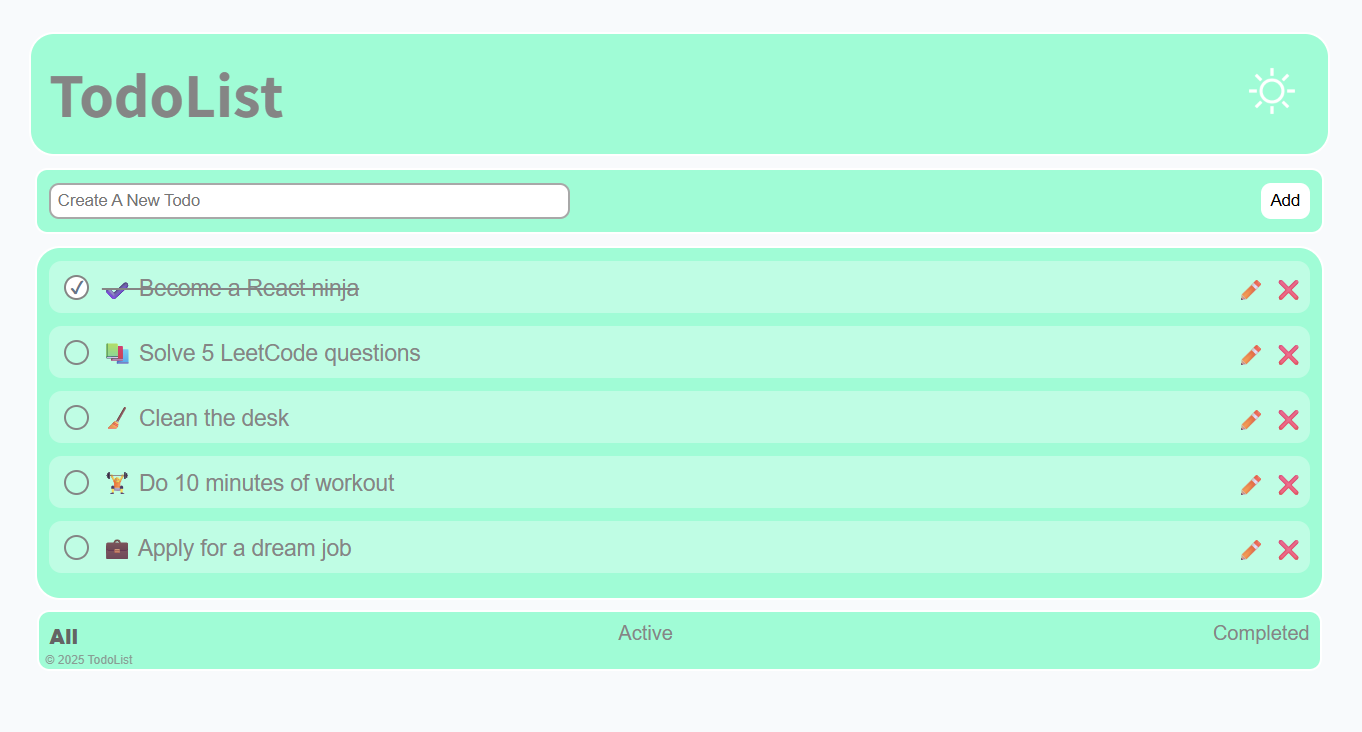
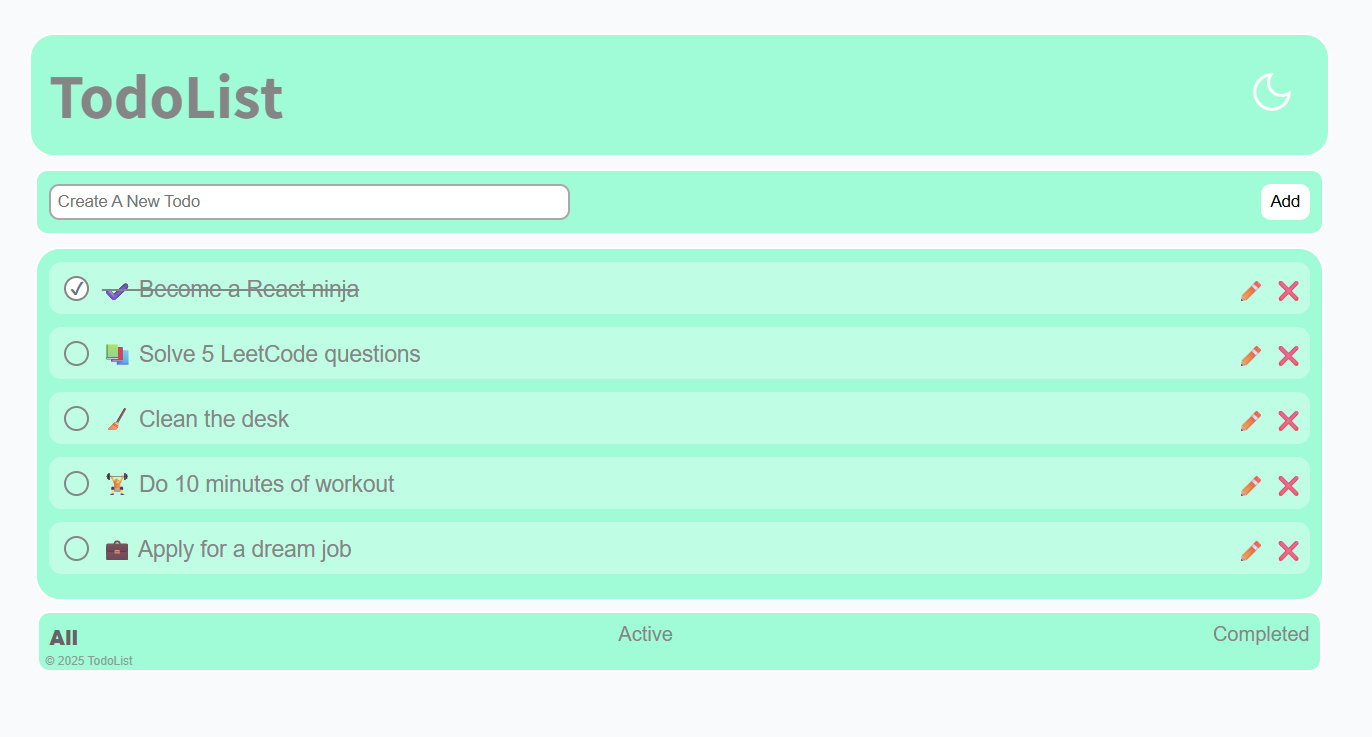
fix: folder case sensitivity issue for images

diff --git a/src/components/Header.jsx b/src/components/Header.jsx
@@ -1,6 +1,4 @@
 import './Header.css'
-import sun from '../../public/images/sun1.png'
-import moon from '../../public/images/moon1.png'
 
 function Header({ mode, setMode }) {
     function handleClick() {
@@ -13,8 +11,11 @@ function Header({ mode, setMode }) {
                 TodoList
             </div>
             <div className="modeButton">
-                <img onClick={handleClick} src={mode === 'lightMode' ? sun : moon}
-                    alt="ImageModeIcon" />
+                <img
+                    onClick={handleClick}
+                    src={mode === 'lightMode' ? '/Images/moon.png' : '/Images/sun.png'}
+                    alt="ImageModeIcon"
+                />
             </div>
         </div>
     )
